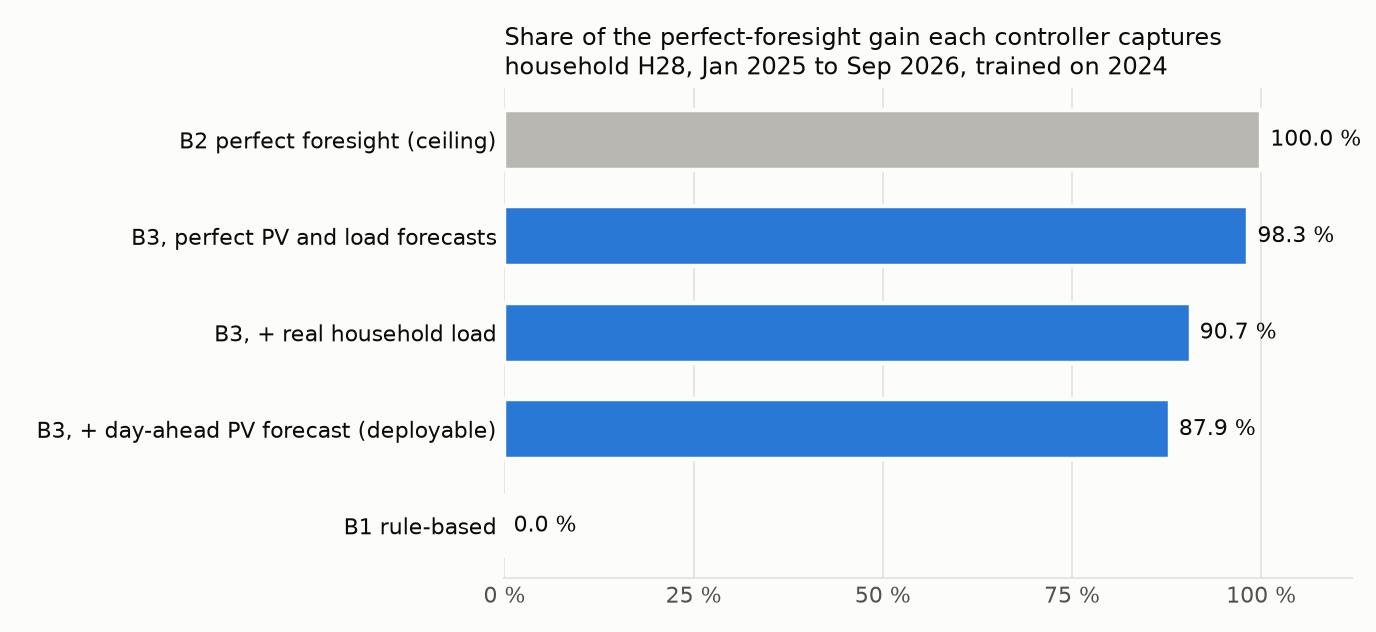
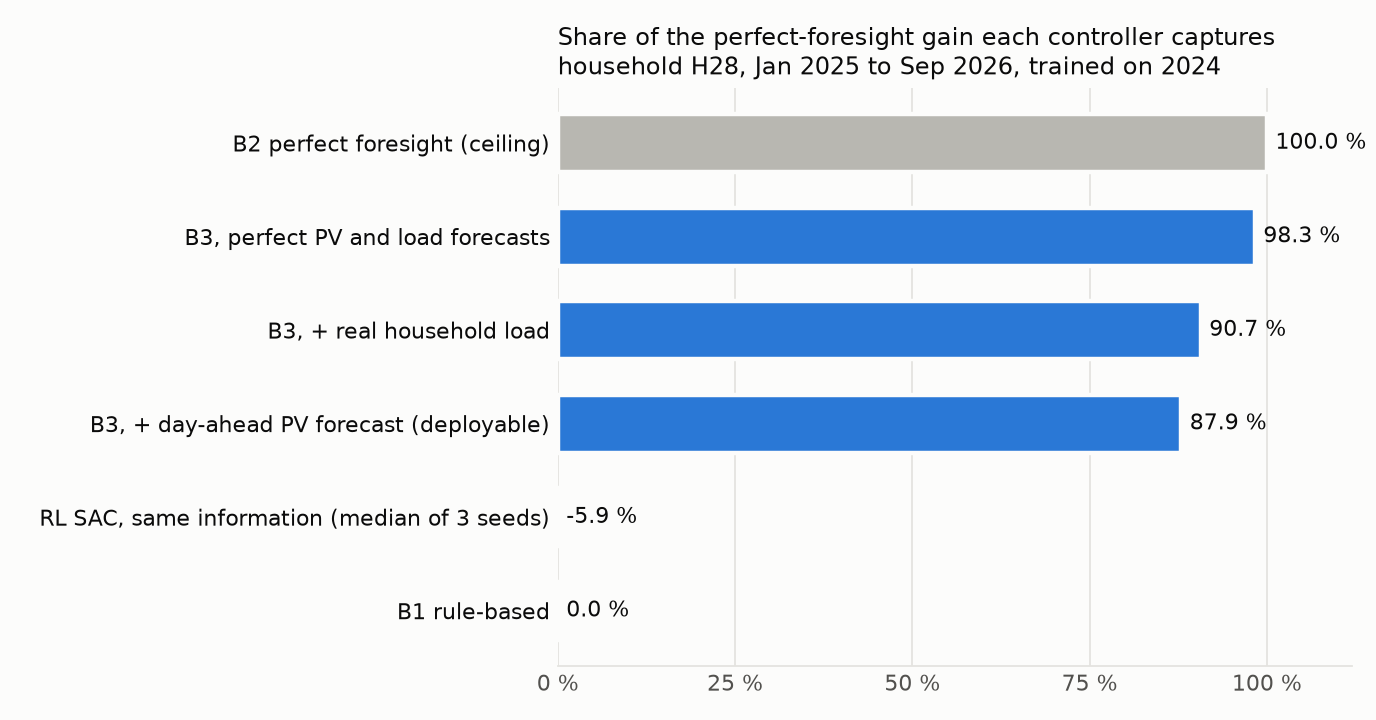
P01: RL result and README section for the thesis extension
Why:
The last open question of the extension was whether a learned controller beats the realistic B3 on the same information. RL below B3 (-5.9 vs 87.9 %).

What:
- README: results section for the thesis extension (Gate 0 thesis reproduction, 2024 to 2026 data and its validation, B3 capture ladder, 73-household sweep, value of quarter-hour prices, RL, limitations)
- reports/rl_eval_H28: SAC on household H28, trained on 2024, tested 2025-01 to 2026-09, per-seed results
- capture ladder figure now includes RL

diff --git a/projects/01-prosumer-pv-bess-mpc-rl/README.md b/projects/01-prosumer-pv-bess-mpc-rl/README.md
@@ -6,16 +6,114 @@ operating under dynamic tariffs (`§41a EnWG`) and grid-orientated control (`§1
 
 | | |
 |---|---|
-| **Status** | **Implemented** — ladder B1/B2/B3 running on measured data; RL environment built |
-| **Type** | Extension and generalisation of the author's M.Sc. thesis configuration |
-| **Method** | Rolling-horizon MILP-MPC · Soft Actor-Critic with a safety layer |
-| **Asset** | 8.9 kWh battery, 5.51 kW inverter (thesis reference site) |
-| **Resolution** | **15 min** (previously 60 min) |
-| **Horizon** | **1–3 days** (96–288 steps), previously single-day |
+| **Status** | **Implemented and evaluated** on 2025/2026 out-of-sample data, 73 measured households |
+| **Type** | Extension of the author's M.Sc. thesis ([`muratkus01/optimization`](https://github.com/muratkus01/optimization), tag `thesis-v1.0`) |
+| **Method** | Rolling-horizon LP-MPC on a realistic information set · Soft Actor-Critic with a safety layer |
+| **Asset** | 8 kWp PV, 9.37 kWh battery, 5.63 kW inverter (the thesis household, Munich) |
+| **Resolution** | **15 min**, including the quarter-hour day-ahead market since 2025-10-01 |
+| **Horizon** | Until the last published price: 11 to 35 h |
 
 ---
 
-## 0. Implementation status and first results
+## Thesis extension: results
+
+The thesis optimised one household over 2024 at hourly resolution with perfect foresight.
+This extension asks what a controller that could actually be deployed achieves, and what the
+switch of the EPEX day-ahead market to quarter-hour products on 1 October 2025 is worth.
+Every number below comes from a committed script and a committed CSV in `reports/`.
+
+```bash
+pip install -e ".[rl,data,dev]"
+prosumer build-data                         # 15-min load, PV, PV forecast, prices 2024-2026
+prosumer rolling-eval --data <household>    # B1 / B2 / B3 variants, train 2024, test 2025-2026
+prosumer household-sweep                    # the deployable B3 for 73 measured households
+prosumer quarter-hour-study                 # value of quarter-hour prices after 2025-10-01
+prosumer rl-eval                            # SAC on the same information set as B3
+```
+
+### Gate 0: the published thesis is reproduced
+
+`tests/test_thesis_reproduction.py` runs the three thesis scenarios (PV only, rule-based,
+perfect-foresight MILP over 2024) on this package's own controllers and matches all 25
+published yearly figures of each scenario within 0.01 EUR. The retail tariff was recovered
+from the published data exactly: `EP_buy = 1.19 * EPEX + 0.1937`,
+`EP_sell = max(0, 1.19 * EPEX - 0.01)` EUR/kWh.
+
+**Found while validating:** the thesis PV profile is one hour early. Its source, a company
+ERA5 model export, has UTC timestamps and is correct; during data preparation they were
+written into the CET column one to one (8778 of 8784 hours identical under that reading).
+Correcting it lowers the optimised scenario's annual profit by 2 % (1039.0 to 1018.2 EUR);
+the thesis conclusions hold. The thesis data is kept as published so Gate 0 still
+reproduces it; everything new uses correctly timed PV.
+
+### Data, 2024 to 2026, 15 minutes
+
+| Input | Source | Check |
+|---|---|---|
+| Prices | EPEX DE-LU day-ahead, Energy-Charts | 2024 matches the thesis exactly; hourly products until 2025-09-30, quarter-hour after |
+| PV | pvlib on Open-Meteo 15-min weather, loss calibrated to the thesis 2024 yield | daily correlation with the thesis PV 0.95; with measured German PV 0.77 (2024), 0.83 (2025), 0.82 (2026), same level as the company data (0.78) |
+| PV forecast | the same model on the weather forecast issued a day earlier (Open-Meteo previous runs) | nRMSE 0.30 to 0.38 in daytime, bias within 1.5 % |
+| Load | 74 measured households, HTW Berlin (Tjaden et al. 2015), scaled to 3221 kWh/a | one household shows PV behind the meter and is excluded ([screen](reports/htw_pv_screen.csv)) |
+| Load forecast | BDEW H0 standard profile with Bavarian holidays | nRMSE 1.03 at 15 min for a single household |
+
+### How much of the perfect-foresight gain does a deployable controller capture?
+
+The controller re-plans every quarter-hour. Day D+1 prices become known at 13:00 on day D,
+and the window ends at the last published price. Stored energy at the window end is valued
+with a monthly price learned on 2024 from the perfect-foresight LP's shadow prices, so no
+information from the test period is used.
+
+![capture ladder](docs/figures/capture_ladder.png)
+
+For the most typical household (H28, closest to the median of all 73 on five load-shape
+features), the deployable B3 captures **87.9 %** of the gain that perfect foresight would
+achieve over the rule-based controller, 342 of 389 EUR over 20.5 months. The gap
+decomposes cleanly: the price-limited horizon costs about 2 points, the household's load
+not following the standard profile about 8, and PV forecast error about 3. Zero
+constraint violations in every run.
+
+![household sweep](docs/figures/household_sweep.png)
+
+Across all 73 measured households the deployable B3 captures a **median 85.2 %** (middle
+half 83.5 to 87.3 %, range 75.0 to 91.4 %). That is the headline figure; H28 sits above the
+median. Households with high peaks capture less: H31, likely with an instantaneous electric
+water heater, reaches 97.9 % with perfect forecasts but 84.8 % with the standard-profile
+load forecast.
+
+### What is the quarter-hour day-ahead market worth?
+
+On the period after the switch, the same controller either sees the real quarter-hour
+prices or their hourly means, and both are settled at the real quarter-hour prices.
+
+![quarter-hour value](docs/figures/quarter_hour_value.png)
+
+Reacting to quarter-hour prices is worth **26.3 EUR** in the first year for the deployable
+B3 (22.7 EUR with perfect foresight), about 11 % of the whole optimisation gain. It is
+earned mostly from March to October. The standard-profile household gives nearly the same
+values (24.9 and 22.3 EUR). An hourly model of the same household, as in the thesis,
+overstates the rule-based result by 12.0 EUR, because hourly averaging hides the
+mismatch between PV and load inside the hour, and understates the optimised result by
+9.2 EUR.
+
+### Does reinforcement learning beat B3?
+
+SAC, trained on 2024 with exactly the information B3 uses (published prices only, the day-ahead PV forecast, the standard-profile load forecast) and tested on the same 20.5 months, captures a **median -5.9 %** of the perfect-foresight gain over 3 seeds (range -7.1 to -1.8 %), against **87.9 %** for the deployable B3 on the same household. The learned policy does not beat B3 here (93.8 points behind). With one training year and a load forecast that is the main source of error for both controllers, the MPC's explicit optimisation over the known price window remains the stronger baseline; this is recorded as a result, not hidden. The safety layer kept violations at 0 (it clipped 77.5 % of the proposed actions); training took about 72 minutes per seed on CPU (500 000 steps). Per-seed results: `reports/rl_eval_H28/`.
+
+### Limitations
+
+- The "actual" weather and the forecast come from the same provider's model family, so the
+  PV forecast problem is slightly easier than against measurements (irradiance nRMSE 0.27
+  against its own analysis, 0.31 against independent ERA5).
+- The measured households are from 2010 (no heat pumps or electric vehicles) and from one
+  unknown region; they are replayed on the 2024 to 2026 calendar by weekday and local clock.
+- The hourly counterfactual uses the hourly mean of the quarter-hour prices; bidding under
+  hourly products would have differed, so the study measures the value of the finer
+  signal, not a market counterfactual.
+- 2026 ends on 17 September.
+
+---
+
+## 0. Earlier results on four measured weeks (superseded by the section above)
 
 The package in `src/prosumer/` implements Phases 1–4 and the Phase-6 environment of
 [`../../docs/08-milp-to-rl-roadmap.md`](../../docs/08-milp-to-rl-roadmap.md). Everything below
